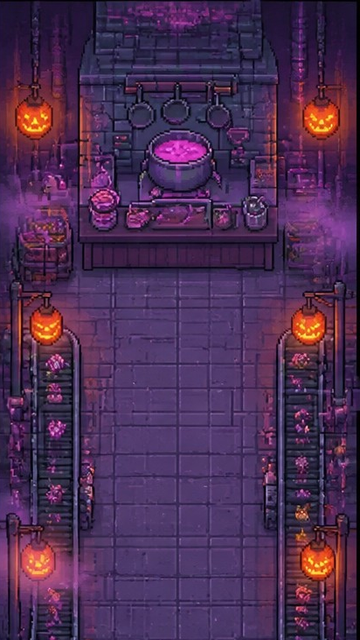
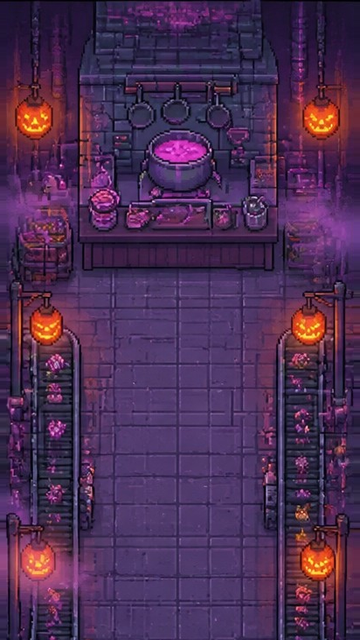
Rendu 2 fois plus fin, bordures sombres des maps effacées, interface masquée derrière les fenêtres en paysage

Changed region(s): [[0.9778, 0.0, 1.0, 1.0], [0.0, 0.5, 0.0306, 0.5312]]

diff --git a/src/scenes/GameScene.ts b/src/scenes/GameScene.ts
@@ -1,5 +1,5 @@
 import Phaser from 'phaser';
-import { landscapeHeight, landscapeWanted, landscapeWidth } from '../core/layout';
+import { landscapeHeight, landscapeWanted, landscapeWidth, pageCam, RES } from '../core/layout';
 import { audio, Sfx, Tune } from '../audio/AudioManager';
 import {
   BOSS_REWARD, ChefId, ENEMIES, FREE_WORLDS, ShopItem, WORLD_HP_STEP, worldRank, CHEFS, CHOP_TIME, COMBO_GOLD, COMBO_SIZE, CONVEYORS, EnemyId, GameMode, H, IngredientId, INGREDIENTS, itemLabel, playerLevel, ORDER_PATIENCE,
@@ -137,7 +137,8 @@ export class GameScene extends Phaser.Scene {
     // Paysage : en attendant les maps dessinées en largeur, le décor est prolongé de chaque côté (copies en miroir,
     // un peu assombries) pour que la map remplisse tout l'écran. On ne peut pas y marcher (hors du terrain).
     for (const k of [-2, -1, 1, 2]) {
-      this.add.image(k * W, 0, 'map_' + this.worldId).setOrigin(0).setDepth(-101).setFlipX(k % 2 !== 0);
+      // copies posées 2 pixels à cheval sur leur voisine : pas de fine ligne noire entre deux morceaux
+      this.add.image(k * W - Math.sign(k) * 2 * Math.abs(k), 0, 'map_' + this.worldId).setOrigin(0).setDepth(-101 - Math.abs(k)).setFlipX(k % 2 !== 0);
     }
     if (this.world.mechanic === 'tapis') {
       for (const c of CONVEYORS) {
@@ -187,15 +188,15 @@ export class GameScene extends Phaser.Scene {
     this.touch = new TouchController(this, (x, y) => this.hud.isUi(x, y));
     // le doigt glisse en coordonnées d'écran : on les ramène sur la carte (utile en paysage, caméra qui suit le chef)
     this.touch.onSlice = (x1, y1, x2, y2) => {
-      const a = this.cameras.main.getWorldPoint(x1, y1);
-      const b = this.cameras.main.getWorldPoint(x2, y2);
+      const a = this.cameras.main.getWorldPoint(x1 * RES, y1 * RES);
+      const b = this.cameras.main.getWorldPoint(x2 * RES, y2 * RES);
       this.slice(a.x, a.y, b.x, b.y);
     };
     // téléphone tourné en pleine partie : on refait l'écran (Android met parfois un instant à donner la bonne taille)
     const relayout = () => {
       if (!this.sys.isActive() && !this.sys.isPaused()) return;
       const land = landscapeWanted();
-      if (land === this.land && (!land || (landscapeWidth() === this.scale.width && landscapeHeight() === this.scale.height))) return;
+      if (land === this.land && (!land || (landscapeWidth() * RES === this.scale.width && landscapeHeight() * RES === this.scale.height))) return;
       this.setupLayout();
       const rival = this.hud.rivalInfo;
       this.hud.destroy();
@@ -210,8 +211,8 @@ export class GameScene extends Phaser.Scene {
       this.events.off('prerender', this.filterCameras, this);
       this.land = false;
       this.hudCam = this.ovlCam = undefined;
-      if (this.scale.width !== W || this.scale.height !== H) {
-        this.scale.setGameSize(W, H);
+      if (this.scale.width !== W * RES || this.scale.height !== H * RES) {
+        this.scale.setGameSize(W * RES, H * RES);
         this.game.events.emit('refit');
       }
     });
@@ -831,7 +832,7 @@ export class GameScene extends Phaser.Scene {
     const land = landscapeWanted();
     const gw = land ? landscapeWidth() : W;
     const gh = land ? landscapeHeight() : H;
-    if (this.scale.width !== gw || this.scale.height !== gh) this.scale.setGameSize(gw, gh);
+    if (this.scale.width !== gw * RES || this.scale.height !== gh * RES) this.scale.setGameSize(gw * RES, gh * RES);
     this.game.events.emit('refit');
     if (this.hudCam) this.cameras.remove(this.hudCam);
     if (this.ovlCam) this.cameras.remove(this.ovlCam);
@@ -839,24 +840,26 @@ export class GameScene extends Phaser.Scene {
     this.land = land;
     const main = this.cameras.main;
     if (!land) {
-      main.setViewport(0, 0, W, H).removeBounds().setScroll(0, 0);
+      pageCam(main.removeBounds(), 0, 0, W, H);
       for (const o of this.children.list) o.cameraFilter = 0;
       return;
     }
     // la map remplit tout l'écran et la caméra suit le chef ; interface et fenêtres par-dessus
-    main.setViewport(0, 0, gw, gh).setBounds(-2 * W, 0, 5 * W, H);
-    this.hudCam = this.cameras.add(0, 0, gw, gh);
-    this.ovlCam = this.cameras.add(0, 0, gw, gh);
+    pageCam(main, 0, 0, gw, gh).setBounds(-2 * W, 0, 5 * W, H);
+    this.hudCam = pageCam(this.cameras.add(), 0, 0, gw, gh);
+    this.ovlCam = pageCam(this.cameras.add(), 0, 0, gw, gh);
     this.followChef(1);
   }
 
   /** En paysage, la map défile pour garder le chef au milieu de l'écran. */
   private followChef(k: number): void {
     const main = this.cameras.main;
-    const ty = Phaser.Math.Clamp(this.chef.y - main.height / 2, 0, H - main.height);
-    const tx = this.chef.x - main.width / 2;
-    main.scrollY += (ty - main.scrollY) * k;
-    main.scrollX += (tx - main.scrollX) * k;
+    const vw = main.width / main.zoom;
+    const vh = main.height / main.zoom;
+    const tx = Phaser.Math.Clamp(this.chef.x, -2 * W + vw / 2, 3 * W - vw / 2);
+    const ty = Phaser.Math.Clamp(this.chef.y, vh / 2, H - vh / 2);
+    const c = main.midPoint;
+    main.centerOn(c.x + (tx - c.x) * k, c.y + (ty - c.y) * k);
   }
 
   /** Chaque objet n'est dessiné que par sa caméra (en paysage seulement). */
@@ -880,11 +883,14 @@ export class GameScene extends Phaser.Scene {
       }
     }
     const ov = this.ovlCam;
+    const oh = ov.height / RES;
+    // une fenêtre est ouverte : l'interface de jeu s'efface derrière (pas de texte qui se chevauche)
+    this.hudCam.setVisible(!box);
     if (box) {
-      ov.setZoom(Math.min(1, (ov.height - 6) / (box.height + 16)));
+      ov.setZoom(RES * Math.min(1, (oh - 6) / (box.height + 16)));
       ov.centerOn(W / 2, box.centerY);
     } else {
-      ov.setZoom(Math.min(1, ov.height / 330));
+      ov.setZoom(RES * Math.min(1, oh / 330));
       ov.centerOn(W / 2, 320);
     }
   }

diff --git a/src/ui/landscapeMenu.ts b/src/ui/landscapeMenu.ts
@@ -1,6 +1,6 @@
 import Phaser from 'phaser';
 import { H, W } from '../core/constants';
-import { landscapeWanted } from '../core/layout';
+import { landscapeWanted, pageCam, RES } from '../core/layout';
 
 /**
  * Écrans de menu (titre, boutique, compte, règles, duel) quand le téléphone est en paysage.
@@ -69,11 +69,11 @@ export function setupLandscapeMenu(scene: Phaser.Scene, fixedSplit?: number, bg 
     }
     const main = scene.cameras.main;
     if (!land) {
-      if (scene.scale.width !== W || scene.scale.height !== H) {
-        scene.scale.setGameSize(W, H);
+      if (scene.scale.width !== W * RES || scene.scale.height !== H * RES) {
+        scene.scale.setGameSize(W * RES, H * RES);
         scene.game.events.emit('refit');
       }
-      main.setViewport(0, 0, W, H).setScroll(0, 0).setBackgroundColor('rgba(0,0,0,0)');
+      pageCam(main, 0, 0, W, H).setBackgroundColor('rgba(0,0,0,0)');
       for (const o of scene.children.list) o.cameraFilter = 0;
       return;
     }
@@ -81,18 +81,18 @@ export function setupLandscapeMenu(scene: Phaser.Scene, fixedSplit?: number, bg 
     const ch = Math.max(split, H - split);
     const ratio = window.innerWidth / Math.max(1, window.innerHeight);
     const cw = Math.max(2 * W + 16, Math.round(ch * Math.min(2.4, ratio)));
-    if (scene.scale.width !== cw || scene.scale.height !== ch) {
-      scene.scale.setGameSize(cw, ch);
+    if (scene.scale.width !== cw * RES || scene.scale.height !== ch * RES) {
+      scene.scale.setGameSize(cw * RES, ch * RES);
       scene.game.events.emit('refit');
     }
     const gap = Math.min(40, cw - 2 * W);
     const x1 = Math.round(cw / 2 - W - gap / 2);
     const x2 = Math.round(cw / 2 + gap / 2);
     // la caméra principale ne sert plus que de fond (elle regarde ailleurs)
-    main.setViewport(0, 0, cw, ch).setScroll(-100000, -100000).setBackgroundColor(bg);
-    const left = scene.cameras.add(x1, Math.round((ch - split) / 2), W, split).setScroll(0, 0);
-    const right = scene.cameras.add(x2, Math.round((ch - (H - split)) / 2), W, H - split).setScroll(0, split);
-    const modal = scene.cameras.add(0, 0, cw, ch);
+    pageCam(main, 0, 0, cw, ch, -100000, -100000).setBackgroundColor(bg);
+    const left = pageCam(scene.cameras.add(), x1, Math.round((ch - split) / 2), W, split, 0, 0);
+    const right = pageCam(scene.cameras.add(), x2, Math.round((ch - (H - split)) / 2), W, H - split, 0, split);
+    const modal = pageCam(scene.cameras.add(), 0, 0, cw, ch);
     CAMS.set(scene, { left, right, modal, split });
   };
 
@@ -118,7 +118,7 @@ export function setupLandscapeMenu(scene: Phaser.Scene, fixedSplit?: number, bg 
     c.right.setAlpha(open ? 0.3 : 1).inputEnabled = !open;
     c.modal.inputEnabled = open;
     if (box) {
-      c.modal.setZoom(Math.min(1, (c.modal.height - 4) / (box.height + 12)));
+      c.modal.setZoom(RES * Math.min(1, (c.modal.height / RES - 4) / (box.height + 12)));
       c.modal.centerOn(W / 2, box.centerY);
     }
   };
@@ -147,7 +147,7 @@ export function pageToWorld(scene: Phaser.Scene, x: number, y: number): { x: num
 /** Hauteur des écrans de menu dessinés exprès pour le paysage (titre, boutique), en coordonnées de page. */
 export const MENU_LH = 360;
 /** Le canvas de ces écrans est rendu 2 fois plus fin (caméras zoomées x2) : dessins HD nets, positions inchangées. */
-export const MENU_SCALE = 2;
+export const MENU_SCALE = RES;
 
 /** Redémarre l'écran quand on tourne le téléphone (portrait <-> paysage ou autre largeur), pour qu'il se redessine. */
 function restartOnRotate(scene: Phaser.Scene, land: boolean, width: number, beforeRestart?: () => void): void {
@@ -175,11 +175,11 @@ export function landscapeMenuWidth(): number {
 
 /** Écran de menu en portrait (360 x 640) qui se redessine en paysage quand on tourne le téléphone. */
 export function portraitMenu(scene: Phaser.Scene, beforeRestart?: () => void): void {
-  if (scene.scale.width !== W || scene.scale.height !== H) {
-    scene.scale.setGameSize(W, H);
+  if (scene.scale.width !== W * RES || scene.scale.height !== H * RES) {
+    scene.scale.setGameSize(W * RES, H * RES);
     scene.game.events.emit('refit');
   }
-  scene.cameras.main.setViewport(0, 0, W, H);
+  pageCam(scene.cameras.main, 0, 0, W, H);
   restartOnRotate(scene, false, W, beforeRestart);
 }
 

diff --git a/src/scenes/MenuScene.ts b/src/scenes/MenuScene.ts
@@ -1,6 +1,6 @@
 import Phaser from 'phaser';
-import { landscapeMenu, MENU_SCALE, pageToWorld, portraitMenu } from '../ui/landscapeMenu';
-import { landscapeWanted } from '../core/layout';
+import { landscapeMenu, MENU_SCALE, portraitMenu } from '../ui/landscapeMenu';
+import { landscapeWanted, RES } from '../core/layout';
 import { audio } from '../audio/AudioManager';
 import { CHEF_ORDER, CHEFS, ChefId, DAILY_GIFT, FREE_WORLDS, H, itemLabel, playerLevel, W, worldUnlocked, WORLD_ORDER, WorldId, WORLDS } from '../core/constants';
 import { claimDailyGift, loadProfile, loadRun, saveProfile } from '../core/Storage';
@@ -87,9 +87,9 @@ export class MenuScene extends Phaser.Scene {
     // Glisser le doigt vers la gauche ou la droite sur les cartes change de page (comme un carrousel)
     this.input.on('pointerup', (p: Phaser.Input.Pointer, over: Phaser.GameObjects.GameObject[]) => {
       if (over.some((o) => (o as Phaser.GameObjects.Image).depth >= 3000)) return; // une fenêtre est ouverte par-dessus
-      const dx = p.x - p.downX;
-      const downY = pageToWorld(this, p.downX, p.downY).y; // en paysage, les mondes sont dans la colonne de droite
-      if (downY < 312 || downY > 462 || Math.abs(dx) < 30 || Math.abs(dx) < Math.abs(p.y - p.downY)) return;
+      const dx = (p.x - p.downX) / RES; // le canvas est RES fois plus fin que la page
+      const downY = p.downY / RES;
+      if (downY < 312 || downY > 462 || Math.abs(dx) < 30 || Math.abs(dx) < Math.abs(p.y - p.downY) / RES) return;
       this.setWorldPage(this.worldPage + (dx < 0 ? 1 : -1));
     });
     this.drawWorlds();
@@ -366,7 +366,7 @@ export class MenuScene extends Phaser.Scene {
         add(this.add.image(x, 378, 'cadenas'));
       }
       img.setInteractive({ useHandCursor: true }).on('pointerup', (p: Phaser.Input.Pointer) => {
-        if (Math.abs(p.x - p.downX) > 12) return; // c'était un glissement, pas un appui
+        if (Math.abs(p.x - p.downX) / RES > 12) return; // c'était un glissement, pas un appui
         audio.sfx(locked ? 'parti' : 'clic');
         if (locked) this.worldInfo.setText(`${WORLDS[id].name}\n${i < FREE_WORLDS ? `Termine d'abord le monde ${i}` : 'A débloquer : BOUTIQUE > PACKS'}`);
         else {

diff --git a/src/input/TouchController.ts b/src/input/TouchController.ts
@@ -1,4 +1,5 @@
 import Phaser from 'phaser';
+import { RES } from '../core/layout';
 
 const JOY_RADIUS = 34;
 const DEADZONE = 5;
@@ -48,33 +49,35 @@ export class TouchController {
   }
 
   private down(p: Phaser.Input.Pointer): void {
-    if (!this.enabled || this.isUi(p.x, p.y)) return;
-    this.tracks.set(p.id, { x: p.x, y: p.y, t: p.downTime });
+    const P = { x: p.x / RES, y: p.y / RES }; // coordonnées de page (le canvas est RES fois plus fin)
+    if (!this.enabled || this.isUi(P.x, P.y)) return;
+    this.tracks.set(p.id, { x: P.x, y: P.y, t: p.downTime });
     if (this.joyId === -1) {
       this.joyId = p.id;
-      this.origin.set(p.x, p.y);
-      this.base.setPosition(p.x, p.y).setVisible(true);
-      this.thumb.setPosition(p.x, p.y).setVisible(true);
+      this.origin.set(P.x, P.y);
+      this.base.setPosition(P.x, P.y).setVisible(true);
+      this.thumb.setPosition(P.x, P.y).setVisible(true);
     }
   }
 
   private moved(p: Phaser.Input.Pointer): void {
+    const P = { x: p.x / RES, y: p.y / RES }; // coordonnées de page (le canvas est RES fois plus fin)
     const tr = this.tracks.get(p.id);
     if (!this.enabled || !tr || !p.isDown) return;
     const now = p.event.timeStamp;
     const dt = Math.max(1, now - tr.t);
-    const len = Math.hypot(p.x - tr.x, p.y - tr.y);
+    const len = Math.hypot(P.x - tr.x, P.y - tr.y);
     if (len >= 3) {
       if (len / dt >= SLICE_SPEED) {
-        this.segs.push({ x1: tr.x, y1: tr.y, x2: p.x, y2: p.y, life: 1 });
-        this.onSlice(tr.x, tr.y, p.x, p.y);
+        this.segs.push({ x1: tr.x, y1: tr.y, x2: P.x, y2: P.y, life: 1 });
+        this.onSlice(tr.x, tr.y, P.x, P.y);
       }
-      tr.x = p.x;
-      tr.y = p.y;
+      tr.x = P.x;
+      tr.y = P.y;
       tr.t = now;
     }
     if (p.id === this.joyId) {
-      const v = new Phaser.Math.Vector2(p.x - this.origin.x, p.y - this.origin.y);
+      const v = new Phaser.Math.Vector2(P.x - this.origin.x, P.y - this.origin.y);
       const d = v.length();
       if (d > JOY_RADIUS) {
         // le joystick suit le pouce

diff --git a/src/main.ts b/src/main.ts
@@ -11,6 +11,7 @@ import { ShopScene } from './scenes/ShopScene';
 import { AccountScene } from './scenes/AccountScene';
 import { App } from '@capacitor/app';
 import { reloadIfUpdated } from './core/update';
+import { RES } from './core/layout';
 
 const parent = document.getElementById('game') as HTMLDivElement;
 
@@ -23,18 +24,18 @@ function fitParent(w = W, h = H): void {
   const zoom = Math.floor(Math.min((window.innerWidth * dpr) / w, (window.innerHeight * dpr) / h));
   // paysage (canvas plus large que haut) : on remplit tout l'écran, même avec un agrandissement non entier
   const fill = Math.min(window.innerWidth / w, window.innerHeight / h);
-  const css = w > h ? fill : zoom >= 1 ? zoom / dpr : fill;
+  const css = w > h || RES > 1 ? fill : zoom >= 1 ? zoom / dpr : fill;
   parent.style.width = `${w * css}px`;
   parent.style.height = `${h * css}px`;
 }
-fitParent();
+fitParent(W * RES, H * RES);
 
 document.fonts.load('8px "Press Start 2P"').finally(() => {
   const game = new Phaser.Game({
     type: Phaser.AUTO,
     parent,
-    width: W,
-    height: H,
+    width: W * RES, // rendu RES fois plus fin (voir core/layout.ts)
+    height: H * RES,
     backgroundColor: '#000000',
     pixelArt: true,
     roundPixels: true,

diff --git a/src/core/layout.ts b/src/core/layout.ts
@@ -20,3 +20,22 @@ export function landscapeHeight(): number {
   const ratio = window.innerHeight / Math.max(1, window.innerWidth);
   return Math.round(Math.min(400, Math.max(266, LW * ratio)));
 }
+
+/**
+ * Finesse du rendu : le canvas a RES fois plus de pixels que la page (360 x 640 en portrait) et chaque caméra
+ * est zoomée RES fois. Toutes les positions du jeu restent les mêmes ; les pixels sont plus réguliers à l'écran
+ * et les dessins haute définition gardent leurs détails.
+ */
+export const RES = 2;
+
+/**
+ * Règle une caméra : elle occupe le rectangle (vx, vy, vw, vh) de l'écran (en coordonnées de page)
+ * et montre la page à partir du point (sx, sy), avec un zoom en plus de RES.
+ */
+export function pageCam<T extends { setViewport: (x: number, y: number, w: number, h: number) => T; setZoom: (z: number) => T; centerOn: (x: number, y: number) => T }>(
+  cam: T, vx: number, vy: number, vw: number, vh: number, sx = 0, sy = 0, zoom = 1,
+): T {
+  cam.setViewport(Math.round(vx * RES), Math.round(vy * RES), Math.round(vw * RES), Math.round(vh * RES));
+  cam.setZoom(RES * zoom);
+  return cam.centerOn(sx + vw / (2 * zoom), sy + vh / (2 * zoom));
+}

diff --git a/src/ui/Hud.ts b/src/ui/Hud.ts
@@ -4,6 +4,7 @@ import { GameManager } from '../core/GameManager';
 import { RecipeManager } from '../core/RecipeManager';
 import { Chef } from '../entities/Chef';
 import { txt } from './text';
+import { RES } from '../core/layout';
 
 const D = 2000;
 
@@ -44,8 +45,8 @@ export class Hud {
 
   constructor(private scene: Phaser.Scene, private gm: GameManager, private chef: Chef, private recipes: RecipeManager, onUlt: () => void, onPause: () => void) {
     const before = new Set(scene.children.list);
-    const sw = scene.scale.width;
-    const sh = scene.scale.height;
+    const sw = scene.scale.width / RES;
+    const sh = scene.scale.height / RES;
     const land = sw > sh;
     this.sw = sw;
     this.land = land;

diff --git a/docs/memoire/JOURNAL.md b/docs/memoire/JOURNAL.md
@@ -57,6 +57,8 @@ Mémoire partagée entre les sessions de travail. Ajouter une entrée datée en 
   - Le bouton DASH de la maquette n'existe pas dans le jeu (le dash n'est qu'un effet d'ultime) : non ajouté, à proposer à Rudy.
   - Testé : 15 vérifications sur le menu et la boutique, plus celles de la partie en paysage et en portrait.
 - Commandes des clients plus légères (12/11, demande de Rudy : elles gênaient la vue) : cartes moins hautes (30 au lieu de 38), un peu transparentes, petites icônes d'ingrédients.
+- Rendu 2 fois plus fin dans tout le jeu (12/11 au soir, demande de Rudy « meilleure qualité ») : le canvas a 2 fois plus de pixels et toutes les caméras sont zoomées x2 (`RES` et `pageCam()` dans `src/core/layout.ts`) ; les positions du jeu n'ont pas changé. Les pixels sont plus réguliers à l'écran et l'image remplit l'écran (agrandissement non entier). Ce n'est pas de la « 4K » : les dessins en pixel art gardent leur nombre de pixels ; pour plus de détails, il faut de nouveaux dessins.
+- Tour de l'appli du 12/11 au soir, corrigé : lignes noires entre la map et le décor prolongé en paysage (plusieurs maps avaient une bordure sombre de 1 à 4 pixels sur les côtés : bordure effacée dans les images, originaux gardés dans `reference/maps-originales/`) ; en paysage, l'interface de jeu s'efface quand une fenêtre (pause, cartes, fin) est ouverte, pour que les textes ne se chevauchent plus. Restent : en portrait, bandes noires en haut et en bas sur les téléphones très allongés (réglé par les futures maps) ; Mon compte, Règles et Duel encore en deux colonnes en paysage.
 - La politique de confidentialité (`/privacy.html`) est maintenant lisible sans code d'accès : Google exige une adresse publique.
 - Écran de fin : le texte se resserre quand il y a beaucoup de lignes (avant, il débordait sur le titre et les boutons).
 - Mon compte affiche la moyenne de pièces validées sur les 20 dernières parties solo : c'est la mesure à utiliser pour régler les prix.
@@ -97,6 +99,7 @@ Mémoire partagée entre les sessions de travail. Ajouter une entrée datée en 
 - Connexion par compte : avec quel service (Google Play Jeux, e-mail via Supabase…).
 
 ## Erreurs commises et leçons
+- Corriger les images des maps au chargement du jeu (canvas recréés avec `textures.addCanvas`) rendait le lancement d'une partie très lent (environ 10 s dans le navigateur de test) -> corriger les images une fois pour toutes dans les fichiers, jamais au chargement.
 - **Adresse e-mail en dur** : j'ai failli publier l'adresse du propriétaire dans le jeu et la page de confidentialité sans demander. Leçon : toute donnée personnelle passe par `.env` et se demande d'abord.
 - **Stand détruit dès la première vague** : tous les monstres attaquaient le stand. Leçon : seuls les Champi-Boucliers et le boss l'attaquent ; toujours faire tourner une partie complète après un changement d'équilibrage.
 - **Robot de test inactif** : remplacer `scene.update` ne fait rien, Phaser garde la fonction en cache. Leçon : remplacer `scene.sys.sceneUpdate`.
